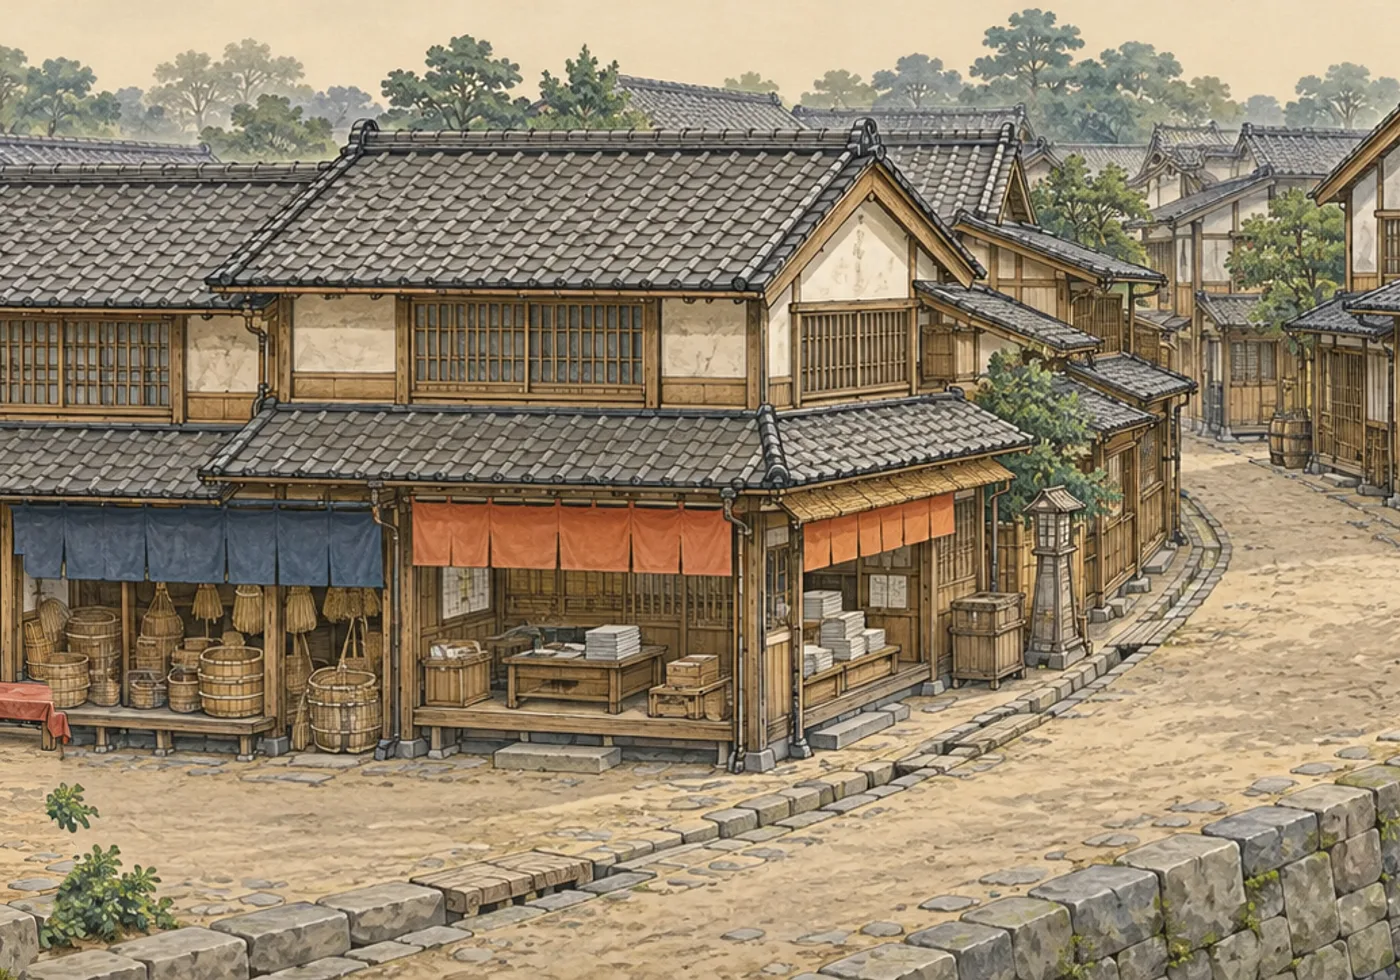
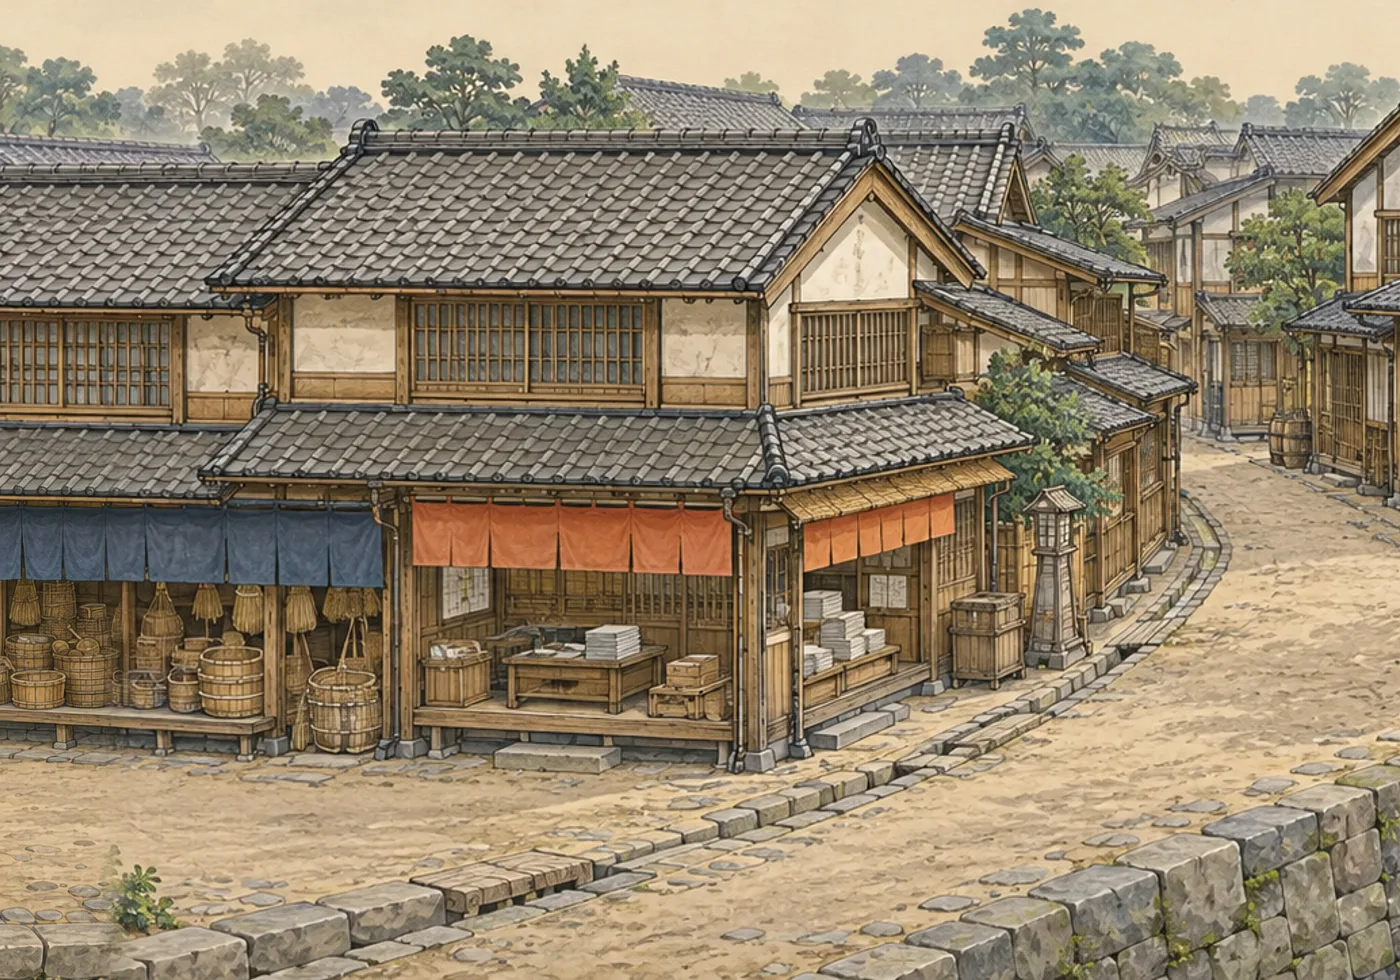
江户长卷接缝修补 v1：三处局部重绘、一处以前景荷车遮挡
- Codex 认领补画后失联，按所有者授权接手四处接缝
- 母稿|03、04|05、10|11：接缝两侧下半部窄带局部重绘后羽化贴回，
  带外保留 Codex 原画
- 11|12：重绘无法弥合路沿高差，不采用；改为摆放前景荷车遮挡
- 新增透明前景物件（荷车、薪束、米俵）
- 记录与前后对比：docs/painted-worlds/art/edo/seams-v1/

Claude-Session: https://claude.ai/code/session_017B9khwgPhjnf7esrFV7VAS

Changed region(s): [[0.0, 0.4592, 0.0921, 1.0]]

diff --git a/apps/qingming-edo/src/scene/painted.tsx b/apps/qingming-edo/src/scene/painted.tsx
@@ -73,6 +73,14 @@ export const CROWD = (() => {
   return out;
 })();
 
+/**
+ * Roadside things in front of the painting. Some stand over a join where the
+ * two paintings' curbs do not meet (docs/painted-worlds/art/edo/seams-v1).
+ */
+export const PROPS: { id: SpriteId; x: number; y: number; flip?: boolean }[] = [
+  { id: 'props-cart', x: 3010, y: 640 }, // over the 11|12 join (unmirrored), curbs at two heights
+];
+
 /** Each person's pose follows the story (spec §8 五状態). */
 export interface Poses {
   seita: 'press' | 'bow' | 'stand';
@@ -134,6 +142,9 @@ export function PaintedStreet({ poses, sections, glints }: PaintedProps) {
         <ellipse key={g.id} className="glint" cx={g.x + g.w / 2} cy={g.y + g.h / 2} rx={g.w / 2 + 4} ry={g.h / 2 + 4} fill="#fff8e0" />
       ))}
 
+      {PROPS.filter((c) => near(c.x, sections)).map((c) => (
+        <Sprite key={`${c.id}-${c.x}`} {...c} />
+      ))}
       {CROWD.filter((c) => near(c.x, sections)).map((c) => (
         <Sprite key={`${c.id}-${c.x}`} {...c} />
       ))}

diff --git a/docs/painted-worlds/art/edo/seams-v1/README.md b/docs/painted-worlds/art/edo/seams-v1/README.md
@@ -1,0 +1,14 @@
+# 江户长卷 · 接缝修补 v1（Claude，2026-10-31）
+
+Codex 交付 14 段原画后，按其 manifest 硬切拼接，4 处接缝路面／路沿不连（Codex 未镜像坐标 x 2000、4000、10000、11000）。Codex 认领补画后 15:26 UTC 起无推送，按所有者「失联则自行推进」接手。**Codex 的 v2 边缘一到，以 Codex 的画为准替换本修补。**
+
+| 接缝（运行坐标，镜像后） | 处理 | 结果 |
+|---|---|---|
+| 母稿｜03（≈12000） | 窄带局部重绘（下半部，带宽 200 px） | 斜石岸与平路相接；母稿右端的红长凳被重绘去掉 |
+| 04｜05（≈9964） | 同上 | 侧巷路缘连续 |
+| 10｜11（≈4034） | 加宽带（360 px）并明确「每行路沿平缓过渡」 | 中间一行路沿连续；外缘略有错位 |
+| 11｜12（≈3007） | 重绘两次都更糟（带边可见、路沿更碎），**不采用**，保留原画 | 用前景物件「荷车」遮住路沿高低错位 |
+
+做法：`cx-build.cjs` 拼接后整卷镜像，再把 `cx-patch*.mts` 的结果（TokenStars `gpt-image-2` edits，仅带内可改）以横向与上缘 40 px 羽化贴回。带外全部为 Codex 原画。前景物件（荷车、薪束、米俵）由 `props.mts` 生成为透明立绘，约 62 单位高。
+
+图：`before-after-narrow.webp`（上原下改）、`before-after-wide.webp`、`in-game.webp`（游戏内四处）。
